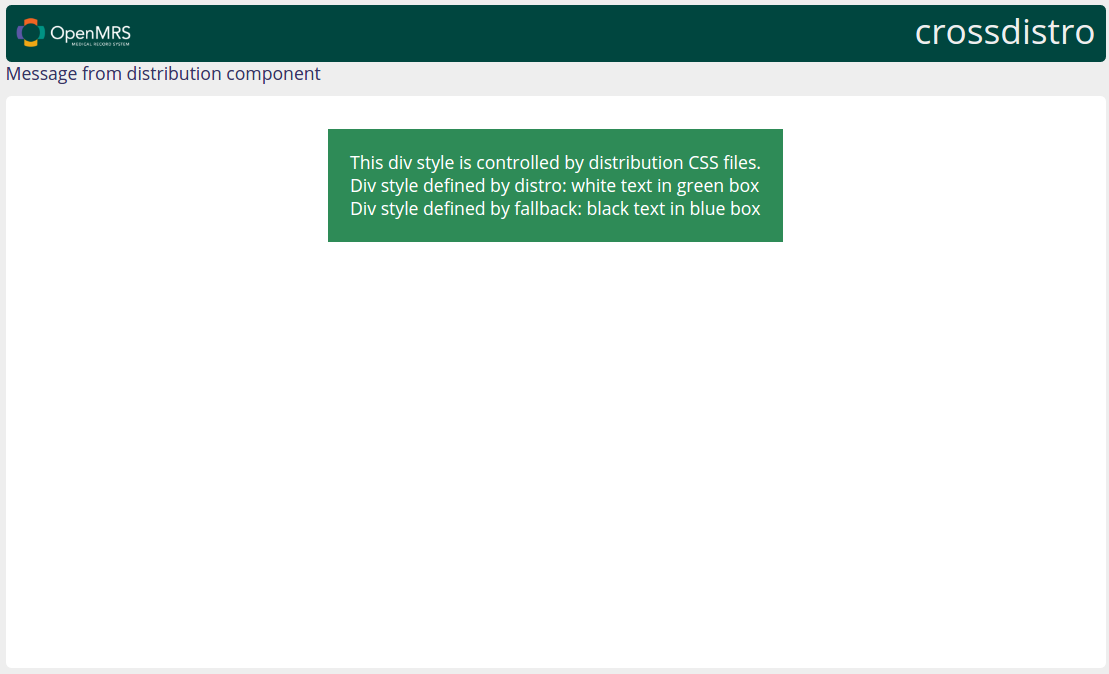
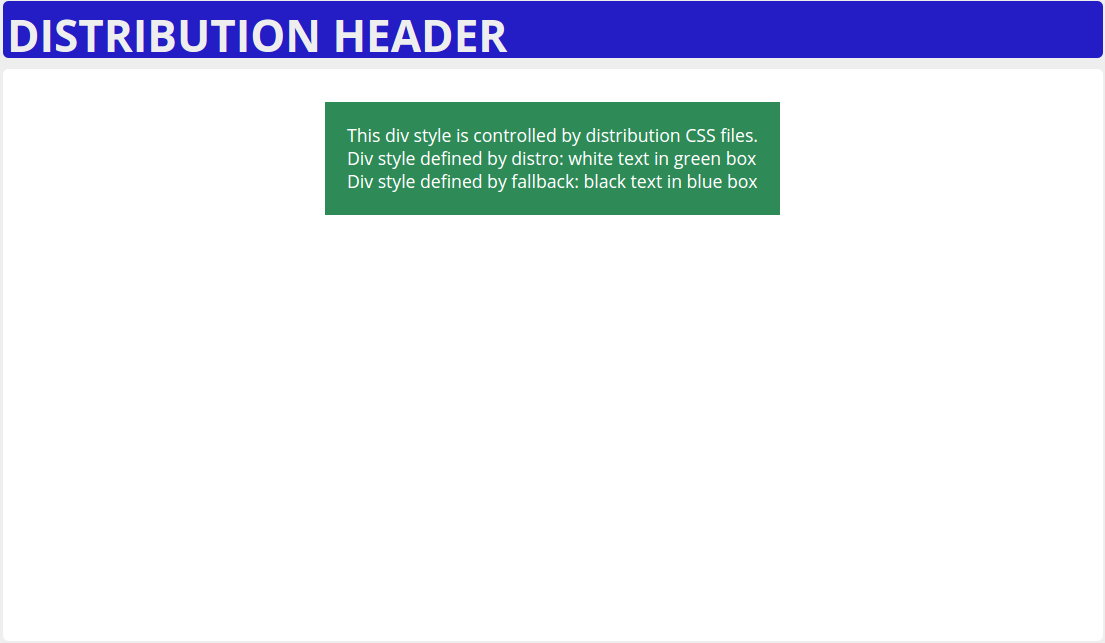
Change overriding behaviour

Changed region(s): [[0.0, 0.0, 1.0, 0.1244], [0.2769, 0.1555, 0.7077, 0.3733]]

diff --git a/owa/app/index.html b/owa/app/index.html
@@ -1,34 +1,18 @@
 <!DOCTYPE html>
-<html>
+<html ng-app="main">
 <head>
   <title>crossdistro</title>
   <!-- openmrs favicon -->
   <link rel="shortcut icon" type="image/ico" href="../../images/openmrs-favicon.ico"/>
   <link rel="icon" type="image/png" href="../../images/openmrs-favicon.png"/>
-  <script src="../distro/distro.bundle.js" type="text/javascript"></script>
   <!--webpack injects bundle scripts here-->
 </head>
 <body>
-  <main></main>
-  <script type="text/javascript">
-    try {
-      //distro module is provided by distro.bundle.js, if it is found, just proceed with bootstrapping angular
-      angular.module('distro');
-      angular.bootstrap(document, ['main']);
-    }
-    catch(e) {
-      //if distro.bundle.js is not available, fallback to fallback.bundle.js from this app
-      var script = document.createElement('script');
-      script.src = 'fallback.bundle.js';
-      script.type = "text/javascript";
-      script.onload = function(){
-        //wait with bootstrapping till fallback bundle is loaded
-        angular.bootstrap(document, ['main']);
-      };
-      document.getElementsByTagName('head')[0].appendChild(script);
-    }
-  </script>
+<main></main>
   <!--last stylesheets have the highest precedence, effectively distribution can take over app styling -->
   <link rel="stylesheet" type="text/css" href="../distro/distro.css"/>
+
+  <!--As with stylesheets, angular modules from distro bundle override app submodules-->
+  <script src="../distro/distro.bundle.js" type="text/javascript"></script>
 </body>
 </html>

diff --git a/distro/app/css/distro.css b/distro/app/css/distro.css
@@ -9,62 +9,23 @@
  * under the License.
  * Copyright (C) OpenMRS, LLC.  All Rights Reserved.
  */
-body {
-    font-family: "OpenSans", Arial, sans-serif;
-    -webkit-font-smoothing: subpixel-antialiased;
-    max-width: 1000px;
-    margin: 10px auto;
-    background: #eeeeee;
-    color: #363463;
-    font-size: 16px;
-}
 
 header {
     position: relative;
-    background-color: #00463f;
+    background-color: #241dc5;
     color: #CCC;
-    line-height: 1em;
-    -moz-border-radius: 5px;
-    -webkit-border-radius: 5px;
-    -o-border-radius: 5px;
-    -ms-border-radius: 5px;
-    -khtml-border-radius: 5px;
+    line-height: 2em;
+    -moz-border-radius: 10px;
+    -webkit-border-radius: 10px;
     border-radius: 5px;
     display: block;
     min-height: 48px;
 }
 
-header .logo {
-    float: left;
-    margin: 4px;
+.title {
     display: block;
-}
-
-header .logo img {
-    width: 120px;
-}
-
-#body-wrapper {
-    margin-top: 10px;
-    padding: 10px;
-    background-color: white;
-    -moz-border-radius: 5px;
-    -webkit-border-radius: 5px;
-    -o-border-radius: 5px;
-    -ms-border-radius: 5px;
-    -khtml-border-radius: 5px;
-    border-radius: 5px;
-    min-height: 500px;
-    display: table-cell;
-    display: flex;
-    justify-content: center;
-}
-
-.app-title {
-    display: block;
-    float: right;
     color: #eeeeee;
-    font-size: 32px;
+    font-size: 40px;
     margin: 4px;
     height: 100%;
     padding-top: 12px;

diff --git a/owa/app/js/main/main.js b/owa/app/js/main/main.js
@@ -2,18 +2,20 @@ import angular from 'angular';
 import uiRouter from 'angular-ui-router';
 import mainComponent from './main.component.js';
 import Home from '../home/home';
+import Fallback from '../fallback/fallback';
 
 var distroModuleName;
 
 //'angular.module(...)' throws exception if specified module cannot be found
-try{
-    distroModuleName = angular.module('distro').name
+var dependencies = [ uiRouter, Home.name, Fallback.name, 'openmrs-contrib-uicommons'];
+try {
+    distroModuleName = angular.module('distro').name;
+    dependencies.push(distroModuleName);
 } catch(err) {
-    distroModuleName = "fallback";
+    console.log('No distro module');
 }
 
-let crossdistroModule = angular.module('crossdistro', [ uiRouter, Home.name, distroModuleName, 'openmrs-contrib-uicommons'
-    ])
+let crossdistroModule = angular.module('crossdistro', dependencies)
     .component('main', mainComponent);
 
 export default crossdistroModule;

diff --git a/distro/webpack.config.js b/distro/webpack.config.js
@@ -27,7 +27,7 @@ const WebpackOnBuildPlugin = require('on-build-webpack');
 
 const nodeModulesDir = path.resolve(__dirname, '../node_modules');
 
-const THIS_APP_ID = 'crossdistro';
+const THIS_APP_ID = 'distro';
 
 var plugins = [];
 const nodeModules = {};
@@ -117,7 +117,8 @@ plugins.push(new BrowserSyncPlugin({
 }));
 
 plugins.push(new CopyWebpackPlugin([{
-    from: './app/manifest.webapp'
+    from: './app/manifest.webapp',
+	to: 'manifest.webapp'
 }]));
 
 plugins.push(new CopyWebpackPlugin([{

diff --git a/owa/app/js/main/main.html b/owa/app/js/main/main.html
@@ -1,14 +1,6 @@
-<header>
-    <div class="logo">
-        <a href="../../">
-            <img src="../../img/openmrs-with-title-small.png"/>
-        </a>
-    </div>
-    <span class="app-title">crossdistro</span>
-</header>
+<openmrs-header></openmrs-header>
 
 <div class="clear">
-    <distro-message></distro-message>
     <div id="body-wrapper" ui-view>
     </div>
 </div>

diff --git a/owa/webpack.config.js b/owa/webpack.config.js
@@ -122,9 +122,7 @@ plugins.push(new CommonsChunkPlugin("vendor", "vendor.bundle.js"));
 
 plugins.push(new HtmlWebpackPlugin({
     template: './app/index.html',
-    inject: 'head',
-	//exclude fallback, so it is dynamically loaded only when needed
-	excludeChunks: ['fallback']
+    inject: 'head'
 }));
 
 plugins.push(new CopyWebpackPlugin([{

diff --git a/owa/app/js/fallback/fallback.js b/owa/app/js/fallback/fallback.js
@@ -1,6 +1,6 @@
 import angular from 'angular';
 import distroMessageComponent from './fallback.component.js';
 
-let distroModule = angular.module('fallback', []).component('distroMessage', distroMessageComponent);
+let distroModule = angular.module('fallback', []).component('fallback', distroMessageComponent);
 
 export default distroModule;

diff --git a/distro/app/js/header/header.component.js b/distro/app/js/header/header.component.js
@@ -1,0 +1,12 @@
+import template from './header.html';
+import controller from './header.controller.js';
+
+let distroHeaderComponent = {
+    restrict: 'E',
+    bindings: {},
+    template: template,
+    controller: controller,
+    controllerAs: 'vm'
+};
+
+export default distroHeaderComponent;

diff --git a/distro/app/js/distro.js b/distro/app/js/distro.js
@@ -10,5 +10,6 @@
  * Copyright (C) OpenMRS, LLC.  All Rights Reserved.
  */
 import Distro from './distro/distro'
+import Header from './header/header'
 
-export default angular.module('distro', [ Distro.name ])
+export default angular.module('distro', [ Distro.name, Header.name ])

diff --git a/distro/app/js/header/header.js b/distro/app/js/header/header.js
@@ -1,0 +1,6 @@
+import angular from 'angular';
+import distroHeaderComponent from './header.component.js';
+
+let distroModule = angular.module('openmrs-contrib-uicommons.header', []).component('openmrsHeader', distroHeaderComponent);
+
+export default distroModule;

diff --git a/distro/app/js/header/header.controller.js b/distro/app/js/header/header.controller.js
@@ -1,0 +1,8 @@
+class DistroHeaderController {
+  constructor() {
+    var vm = this;
+    vm.appTitle = "DISTRIBUTION HEADER"
+  }
+}
+
+export default DistroHeaderController;

diff --git a/owa/app/js/main/main.controller.js b/owa/app/js/main/main.controller.js
@@ -1,3 +1,6 @@
 class MainController {
+    constructor(){
+        var vm = this;
+    }
 }
 export default MainController;
